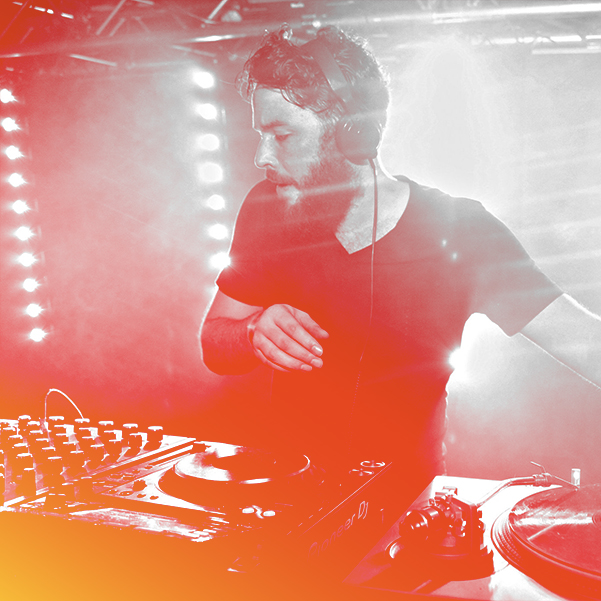
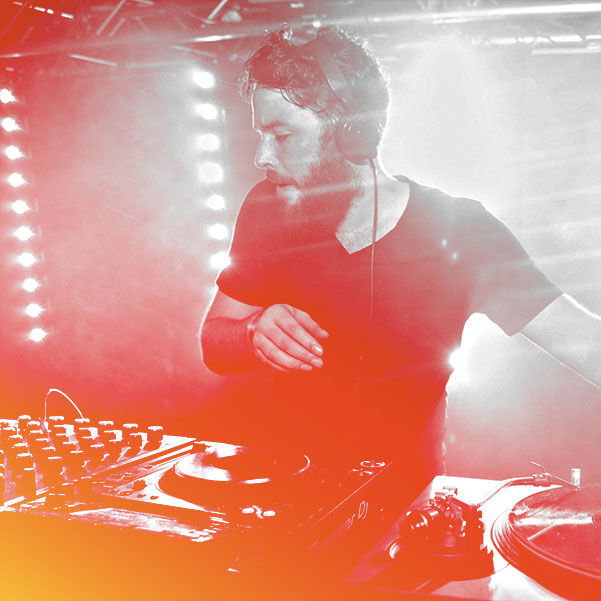
s

Changed region(s): [[0.2097, 0.7787, 0.2396, 0.8087], [0.03, 0.6889, 0.0599, 0.7188]]

diff --git a/skip-the-beat/index.html b/skip-the-beat/index.html
@@ -84,7 +84,7 @@
             <h2>PROGRAMMATION</h2>
             <br>
             <div class="col-8 offset-2">
-                <img src="assets/capture.png" style="width: 100%;">
+                <img src="assets/capture.jpg" style="width: 100%;">
 
             </div>
 
